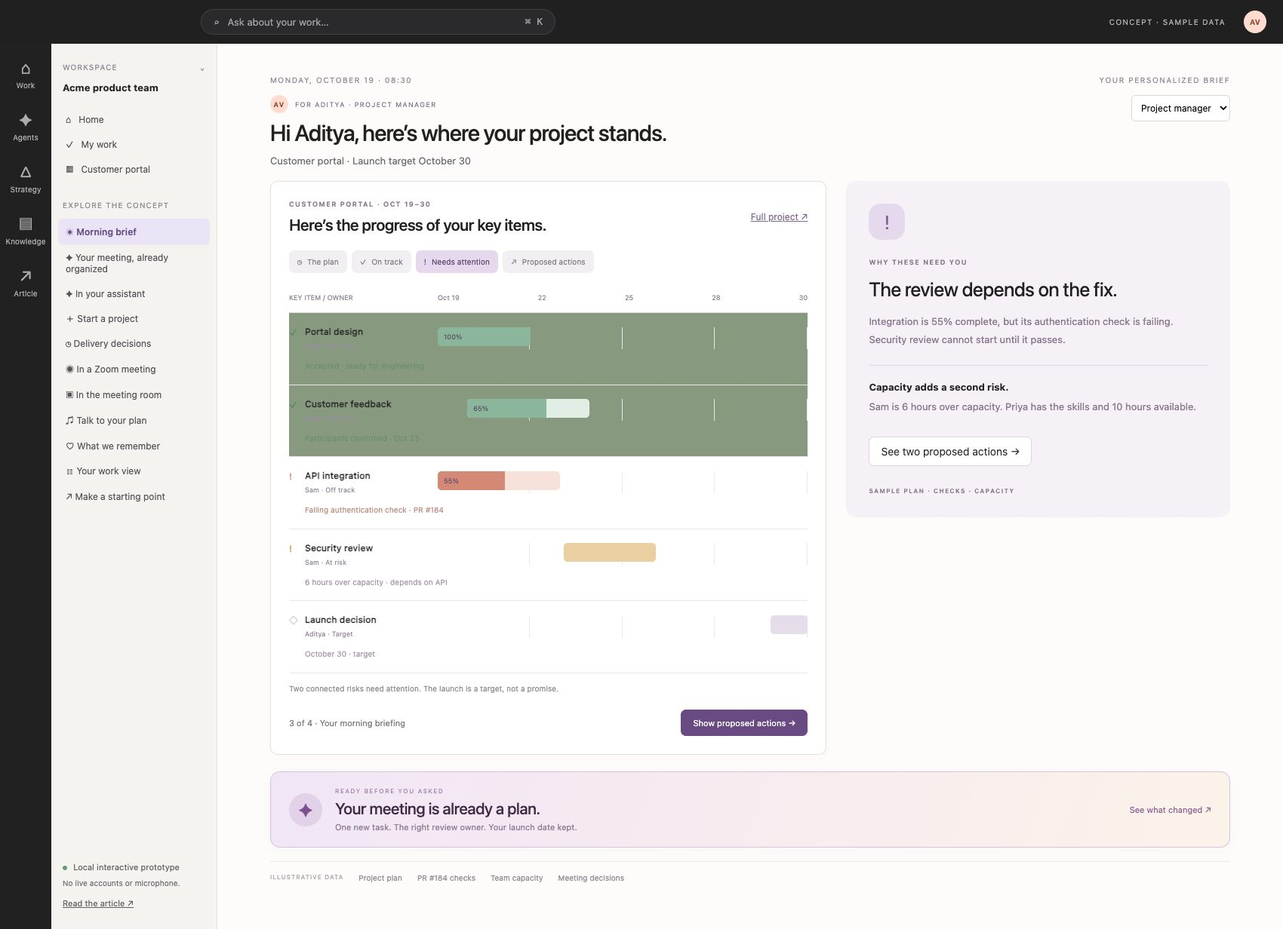
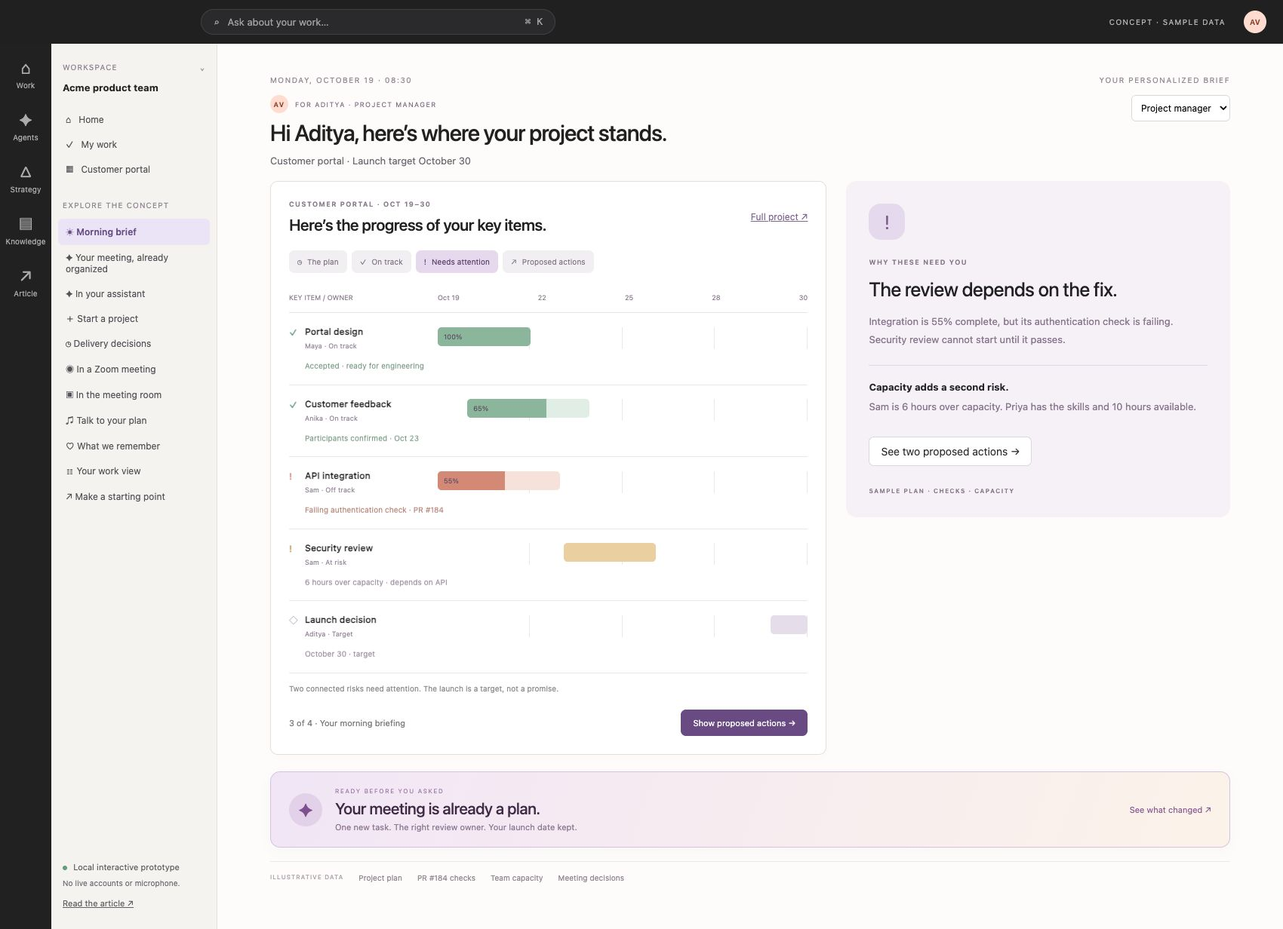
Keep Gantt status colors readable and archive briefing stages

Changed region(s): [[0.2182, 0.3393, 0.6547, 0.4935]]

diff --git a/projects/asana/prototype/app.js b/projects/asana/prototype/app.js
@@ -20,7 +20,7 @@ const voice=()=>head('Principle 5 / Voice while working alone','Talk through the
 const learning=()=>head('Principle 6 / Learn the reason behind a correction','An exception is useful context','Tell us why. We’ll use it next time.')+`<div class="grid equal"><section class="card"><span class="tag amber">Capacity warning · Sam Lee</span><div class="bubble">This overlap is intentional. Sam is pairing with Priya on the review, so don’t count both tasks as full-time work this week.</div><h2>What should we remember?</h2><div class="memory-card ${state.memory?'remembered':''}"><strong>Pairing changes the capacity estimate</strong><p>For the customer portal this week, treat Sam’s security review as shared pairing time.</p><div class="line"><span>Scope</span><span>This project only</span></div><div class="line"><span>Expires</span><span>Oct 23</span></div><div class="line"><span>Confirmed by</span><span>Aditya</span></div></div><button class="primary" onclick="state.memory=true;render();toast('Project exception saved in this demo')">${state.memory?'✓ Exception remembered':'Remember this exception'}</button></section><section class="card tint"><h2>A little more understanding</h2><p class="sub">We’ll account for pairing. We’ll still flag a failing security check.</p><div class="item"><span>✓</span><div><h3>Explain what changed</h3><p>Use the adjustment when estimating this week’s work.</p></div></div><div class="item"><span>◷</span><div><h3>Ask again when the exception expires</h3><p>Don’t turn one project’s exception into a permanent rule.</p></div></div><div class="item"><span>↗</span><div><h3>Check whether it helped</h3><p>Did the project stay on track? Did the warning return?</p></div></div><button onclick="state.memory=false;render();toast('Exception removed from the sample memory')">Reset exception</button><button class="inline-link" style="margin-left:14px" onclick="go('developer')">See a different work view →</button></section></div>`;
 const developer=()=>head('Principle 3 / Dynamic interfaces',state.role==='developer'?'Your next two days, Alex':'The delivery view, Aditya',state.role==='developer'?'The work you can act on, with the evidence and the deadline in view.':'Schedules, dependencies, and decisions across the project.',`<select class="role-switch" aria-label="Work view" onchange="state.role=this.value;render()"><option value="manager" ${state.role==='manager'?'selected':''}>Project manager</option><option value="developer" ${state.role==='developer'?'selected':''}>Developer</option></select>`)+`${state.role==='manager'?`<div class="notice"><div><strong>Launch readiness depends on two pieces of evidence</strong><p>API checks and security sign-off need review before the Oct 30 decision.</p></div><button onclick="go('risk')">Inspect risk →</button></div><div class="grid equal"><section class="card"><h2>Delivery milestones</h2><div class="line"><span>API integration · Oct 22</span><span class="tag amber">Checks failing</span></div><div class="line"><span>Security review · Oct 23</span><span class="tag gray">Pending</span></div><div class="line"><span>Launch decision · Oct 30</span><span class="tag">Aditya</span></div><p class="sourceline">Connected evidence is an input, not a substitute for acceptance.</p></section><section class="card tint"><h2>Questions to resolve</h2><p>Is the review owner confirmed? Are failing checks blocking acceptance? Is the scope still realistic?</p><button onclick="state.role='developer';render()">See what the developer sees →</button></section></div>`:`<div class="banner"><strong>API integration is due in 2 days. The linked checks are still failing.</strong><p>The pull request is open, but the task is not ready to call complete. Review the failure or let Aditya know what changed.</p></div><div class="grid two spaced"><section class="card"><div class="row spread"><h2>Continue API integration</h2><span class="tag amber">Needs attention</span></div><p class="tiny">Customer portal / Engineering / Due Oct 22</p><div class="code">PR #184 · feat/customer-portal-api<br>✓ Type check<br>✓ Unit tests<br>× Integration / authentication callback<br>Review requested · 1 unresolved comment</div><div class="divider"></div><h3>What will count as done?</h3><p class="tiny">Authentication works end to end, checks pass, and the reviewer accepts the change.</p><button class="primary" onclick="go('create')">Prepare a coding handoff →</button><button style="margin-left:8px" onclick="toast('Draft prepared: API integration may slip; authentication callback needs a fix. Nothing sent.')">Draft update for Aditya</button></section><section class="card tint"><h2>Why this is first</h2><p class="tiny">Security review depends on this integration. Your design cleanup task can wait until the callback is fixed.</p><div class="evidence"><strong class="tiny">Signals used</strong><p>Linked pull request, current checks, reviewer comments, and the project dependency.</p></div><button class="inline-link" onclick="go('board')">See the whole plan →</button></section></div>`}`;
 const create=()=>head('Beyond coordination / Get the work done','One request. The right capabilities behind it.','A useful first draft. Your choice of where to take it next.')+`<div class="grid two"><section class="card"><div class="row spread"><h2>Customer portal starter</h2><span class="tag ${state.artifact?'green':'gray'}">${state.artifact?'Draft ready':'Ready to generate'}</span></div><p class="sub">“Use our approved references and portal brief to give us a starting flow and implementation plan.”</p>${state.artifact?`<div class="room-timeline"><div><h3>Sign in</h3><p class="tiny">Email + verification</p><div style="height:6px;background:#ede9e3;margin:18px 0"></div><button style="font-size:10px" onclick="toast('Sample sign-in screen selected')">Continue</button></div><div><h3>Your workspace</h3><p class="tiny">Requests · Documents</p><div class="tag green">3 updates</div></div><div><h3>Request detail</h3><p class="tiny">Status · Owner · History</p><span class="tag">In progress</span></div></div><p class="sourceline">Illustrative artifact · generated locally from prepared sample content</p>`:`<div class="quote-note"><strong>Starting context</strong><p class="tiny">Portal brief · Approved design references · Authentication requirements</p><strong>Expected output</strong><p class="tiny">A reviewable starter flow, component outline, and scoped coding task.</p></div><div class="foot-actions"><button class="primary" onclick="state.artifact=true;render()">Generate sample starter →</button></div>`}<div class="divider"></div><div class="row"><span class="agent-icon">✦</span><p class="tiny">You speak to one assistant. Design, planning, and coding are capabilities it can bring in. Aditya remains accountable for acceptance.</p></div></section><section class="card tint"><h2>Take it into your tools</h2><p class="tiny">Keep the context and acceptance criteria attached when work moves to a specialist tool.</p><button style="width:100%;text-align:left" onclick="toast('Concept handoff: starter flow and references prepared for Figma. Nothing uploaded.')">↗ &nbsp; Prepare Figma handoff</button><div class="empty-space"></div><label class="tiny muted" for="coding-tool">CODING ENVIRONMENT</label><select id="coding-tool" class="role-switch" style="width:100%;margin:8px 0 14px"><option>Codex</option><option>Claude Code</option></select><div class="code">Task: Implement authentication flow<br>Scope: Feature branch only<br>Done: Checks pass + human review<br>Context: Brief, flow, requirements<br>Access: Approved repository only</div><div class="foot-actions"><button class="primary" onclick="state.session=true;render();toast('Sample coding handoff prepared. No session was started.')">${state.session?'✓ Handoff prepared':'Prepare coding session →'}</button></div>${state.session?'<div class="finish">Ready for your review. In a connected product, this is where you would approve access and start the session.</div>':''}<p class="sourceline">Concept only · no coding tool or external service is connected.</p></section></div>`;
-const morning=()=>{const engineering=state.briefFocus==='building',stage=state.morningStage??0;return `<div class="pm-dashboard"><div class="brief-masthead"><span>MONDAY, OCTOBER 19 · 08:30</span><span>YOUR PERSONALIZED BRIEF</span></div><div class="page-head"><div><div class="pm-persona">${av('AV','coral')} FOR ADITYA · ${engineering?'ENGINEERING FOCUS':'PROJECT MANAGER'}</div><h1>${engineering?'Fix the blocker. Keep work moving.':'Hi Aditya, here’s where your project stands.'}</h1><p class="sub">Customer portal · Launch target October 30</p></div><select class="role-switch" aria-label="Brief focus" onchange="state.briefFocus=this.value;render()"><option value="delivery" ${!engineering?'selected':''}>Project manager</option><option value="building" ${engineering?'selected':''}>Engineering</option></select></div><div class="pm-layout"><section class="card pm-status morning-timeline"><div class="row spread"><div><div class="brief-label">CUSTOMER PORTAL · OCT 19–30</div><h2>Here’s the progress of your key items.</h2></div><button class="inline-link" onclick="go('board')">Full project ↗</button></div><div class="brief-sequence" aria-label="Morning briefing steps">${[['The plan','◷'],['On track','✓'],['Needs attention','!'],['Proposed actions','↗']].map(([label,icon],i)=>`<button class="${stage===i?'selected':''}" aria-pressed="${stage===i}" onclick="state.morningStage=${i};render()"><span>${icon}</span>${label}</button>`).join('')}</div><div class="brief-gantt"><div class="brief-gantt-head"><span>KEY ITEM / OWNER</span><div><span>Oct 19</span><span>22</span><span>25</span><span>28</span><span>30</span></div></div>${[['Portal design','Maya',0,25,100,'good','Accepted · ready for engineering'],['Customer feedback','Anika',8,33,65,'good','Participants confirmed · Oct 23'],['API integration','Sam',0,33,55,'blocked','Failing authentication check · PR #184'],['Security review',state.meetingPlanApplied?'Priya':'Sam',34,25,0,'watch',state.meetingPlanApplied?'Waiting for integration checks':'6 hours over capacity · depends on API'],['Launch decision','Aditya',90,10,0,'target','October 30 · target']].map(([name,owner,left,width,progress,kind,detail])=>{const active=kind==='good'?stage>=1:stage>=2;return `<div class="brief-gantt-row ${active?'revealed '+kind:''}"><div class="brief-gantt-name"><strong><span class="brief-check">${active?(kind==='good'?'✓':kind==='target'?'◇':'!'):'·'}</span>${name}</strong><small>${owner} ${active?'· '+(kind==='good'?'On track':kind==='blocked'?'Off track':kind==='watch'?'At risk':'Target'):''}</small></div><div class="brief-gantt-track"><div class="brief-gantt-bar" style="left:${left}%;width:${width}%"><i style="width:${progress}%"></i><span>${progress?progress+'%':''}</span></div></div>${active?`<p class="brief-row-reason">${detail}</p>`:''}</div>`}).join('')}</div><p class="sourceline">${stage===0?'Your plan first. Walk through what’s moving, what needs you, and what to do next.':stage===1?'✓ Design and customer feedback are on track. You can leave these moving.':stage===2?'Two connected risks need attention. The launch is a target, not a promise.':'Two proposed actions, linked to the work they protect. You choose what happens next.'}</p><div class="row spread brief-next-step"><span class="tiny muted">${stage+1} of 4 · Your morning briefing</span>${stage<3?`<button class="primary" onclick="state.morningStage=${stage+1};render()">${['Show what’s on track','Show what needs attention','Show proposed actions'][stage]} →</button>`:'<button onclick="state.morningStage=0;render()">↺ Replay briefing</button>'}</div></section>${stage<3?`<aside class="brief-narrator"><span class="brief-narrator-icon">${stage===0?'☀':stage===1?'✓':'!'}</span><div class="brief-label">${stage===0?'GOOD MORNING':stage===1?'MOVING WELL':'WHY THESE NEED YOU'}</div><h2>${stage===0?'A clear start to your day.':stage===1?'Two things you don’t need to chase.':'The review depends on the fix.'}</h2><p>${stage===0?'The portal launch is October 30. Let’s look at progress before we get into decisions.':stage===1?'Maya’s design is accepted. Anika’s feedback session is confirmed. Both are moving within the plan.':'Integration is 55% complete, but its authentication check is failing. Security review cannot start until it passes.'}</p>${stage===2?`<div class="brief-risk-note"><strong>Capacity adds a second risk.</strong><p>${state.meetingPlanApplied?'Priya now owns the review. The integration dependency remains.':'Sam is 6 hours over capacity. Priya has the skills and 10 hours available.'}</p></div><button onclick="state.morningStage=3;render()">See two proposed actions →</button>`:'<span class="tag green">'+(stage===0?'Prepared for your project manager view':'✓ Design · ✓ Customer feedback')+'</span>'}<div class="brief-label brief-source-note">SAMPLE PLAN · CHECKS · CAPACITY</div></aside>`:''}<aside class="pm-recommendations" ${stage<3?'hidden':''}><div class="brief-label">${state.meetingPlanApplied?'YOUR NEXT STEP · AND WHAT MOVED':'TWO RECOMMENDATIONS FOR YOU'}</div><article class="pm-recommendation"><div class="pm-rec-number">01 <span>UNBLOCK THE WORK</span></div><h2>${engineering?'Fix the authentication callback first.':'Get Sam’s fix plan today.'}</h2><p>Resolve the failing authentication check before the October 22 integration deadline. Keep Sam focused on this blocker.</p><div class="pm-impact">Protects the start of security review.</div><button class="primary" onclick="${engineering?"state.role='developer';go('developer')":"openBriefDraft('sam')"}">${engineering?'Open the blocked task →':'Review follow-up to Sam →'}</button></article><article class="pm-recommendation"><div class="pm-rec-number">02 <span>PROTECT THE NEXT MILESTONE</span></div><h2>${state.meetingPlanApplied?'You kept the review moving.':'Move the security review to Priya.'}</h2><p>She has the skills and 10 hours available. Sam stays on integration; the October 30 launch target stays in view.</p><div class="pm-impact">Removes the 6-hour capacity conflict.</div><button onclick="go(state.meetingPlanApplied?'meeting-plan':'risk')">${state.meetingPlanApplied?'See the reviewed plan →':'Review the reassignment →'}</button></article><div class="pm-board-note"><span>Keep stakeholders aligned.</span><button class="inline-link" onclick="openBriefDraft('board')">Draft a launch-board update ↗</button></div></aside></div><button class="prepared-surprise" onclick="go('meeting-plan')"><span class="prepared-mark">✦</span><span><small>READY BEFORE YOU ASKED</small><strong>${state.meetingPlanApplied?'Your meeting is now in the plan.':'Your meeting is already a plan.'}</strong><span>One new task. The right review owner. Your launch date kept.</span></span><span class="prepared-open">See what changed ↗</span></button><div class="brief-provenance">ILLUSTRATIVE DATA <span>Project plan</span><span>PR #184 checks</span><span>Team capacity</span><span>Meeting decisions</span></div></div><dialog id="brief-dialog"><button class="dialog-close" onclick="document.getElementById('brief-dialog').close()" aria-label="Close draft">×</button><span class="tag">Draft for your review</span><h2 id="draft-title"></h2><p id="draft-copy"></p><div class="divider"></div><p class="tiny muted">Sample only. No message has been sent.</p><button class="primary" onclick="document.getElementById('brief-dialog').close();toast('Draft kept for review. Nothing sent.')">Keep draft</button></dialog>`;};
+const morning=()=>{const engineering=state.briefFocus==='building',stage=state.morningStage??0;return `<div class="pm-dashboard"><div class="brief-masthead"><span>MONDAY, OCTOBER 19 · 08:30</span><span>YOUR PERSONALIZED BRIEF</span></div><div class="page-head"><div><div class="pm-persona">${av('AV','coral')} FOR ADITYA · ${engineering?'ENGINEERING FOCUS':'PROJECT MANAGER'}</div><h1>${engineering?'Fix the blocker. Keep work moving.':'Hi Aditya, here’s where your project stands.'}</h1><p class="sub">Customer portal · Launch target October 30</p></div><select class="role-switch" aria-label="Brief focus" onchange="state.briefFocus=this.value;render()"><option value="delivery" ${!engineering?'selected':''}>Project manager</option><option value="building" ${engineering?'selected':''}>Engineering</option></select></div><div class="pm-layout"><section class="card pm-status morning-timeline"><div class="row spread"><div><div class="brief-label">CUSTOMER PORTAL · OCT 19–30</div><h2>Here’s the progress of your key items.</h2></div><button class="inline-link" onclick="go('board')">Full project ↗</button></div><div class="brief-sequence" aria-label="Morning briefing steps">${[['The plan','◷'],['On track','✓'],['Needs attention','!'],['Proposed actions','↗']].map(([label,icon],i)=>`<button class="${stage===i?'selected':''}" aria-pressed="${stage===i}" onclick="state.morningStage=${i};render()"><span>${icon}</span>${label}</button>`).join('')}</div><div class="brief-gantt"><div class="brief-gantt-head"><span>KEY ITEM / OWNER</span><div><span>Oct 19</span><span>22</span><span>25</span><span>28</span><span>30</span></div></div>${[['Portal design','Maya',0,25,100,'on-schedule','Accepted · ready for engineering'],['Customer feedback','Anika',8,33,65,'on-schedule','Participants confirmed · Oct 23'],['API integration','Sam',0,33,55,'blocked','Failing authentication check · PR #184'],['Security review',state.meetingPlanApplied?'Priya':'Sam',34,25,0,'watch',state.meetingPlanApplied?'Waiting for integration checks':'6 hours over capacity · depends on API'],['Launch decision','Aditya',90,10,0,'target','October 30 · target']].map(([name,owner,left,width,progress,kind,detail])=>{const active=kind==='on-schedule'?stage>=1:stage>=2;return `<div class="brief-gantt-row ${active?'revealed '+kind:''}"><div class="brief-gantt-name"><strong><span class="brief-check">${active?(kind==='on-schedule'?'✓':kind==='target'?'◇':'!'):'·'}</span>${name}</strong><small>${owner} ${active?'· '+(kind==='on-schedule'?'On track':kind==='blocked'?'Off track':kind==='watch'?'At risk':'Target'):''}</small></div><div class="brief-gantt-track"><div class="brief-gantt-bar" style="left:${left}%;width:${width}%"><i style="width:${progress}%"></i><span>${progress?progress+'%':''}</span></div></div>${active?`<p class="brief-row-reason">${detail}</p>`:''}</div>`}).join('')}</div><p class="sourceline">${stage===0?'Your plan first. Walk through what’s moving, what needs you, and what to do next.':stage===1?'✓ Design and customer feedback are on track. You can leave these moving.':stage===2?'Two connected risks need attention. The launch is a target, not a promise.':'Two proposed actions, linked to the work they protect. You choose what happens next.'}</p><div class="row spread brief-next-step"><span class="tiny muted">${stage+1} of 4 · Your morning briefing</span>${stage<3?`<button class="primary" onclick="state.morningStage=${stage+1};render()">${['Show what’s on track','Show what needs attention','Show proposed actions'][stage]} →</button>`:'<button onclick="state.morningStage=0;render()">↺ Replay briefing</button>'}</div></section>${stage<3?`<aside class="brief-narrator"><span class="brief-narrator-icon">${stage===0?'☀':stage===1?'✓':'!'}</span><div class="brief-label">${stage===0?'GOOD MORNING':stage===1?'MOVING WELL':'WHY THESE NEED YOU'}</div><h2>${stage===0?'A clear start to your day.':stage===1?'Two things you don’t need to chase.':'The review depends on the fix.'}</h2><p>${stage===0?'The portal launch is October 30. Let’s look at progress before we get into decisions.':stage===1?'Maya’s design is accepted. Anika’s feedback session is confirmed. Both are moving within the plan.':'Integration is 55% complete, but its authentication check is failing. Security review cannot start until it passes.'}</p>${stage===2?`<div class="brief-risk-note"><strong>Capacity adds a second risk.</strong><p>${state.meetingPlanApplied?'Priya now owns the review. The integration dependency remains.':'Sam is 6 hours over capacity. Priya has the skills and 10 hours available.'}</p></div><button onclick="state.morningStage=3;render()">See two proposed actions →</button>`:'<span class="tag green">'+(stage===0?'Prepared for your project manager view':'✓ Design · ✓ Customer feedback')+'</span>'}<div class="brief-label brief-source-note">SAMPLE PLAN · CHECKS · CAPACITY</div></aside>`:''}<aside class="pm-recommendations" ${stage<3?'hidden':''}><div class="brief-label">${state.meetingPlanApplied?'YOUR NEXT STEP · AND WHAT MOVED':'TWO RECOMMENDATIONS FOR YOU'}</div><article class="pm-recommendation"><div class="pm-rec-number">01 <span>UNBLOCK THE WORK</span></div><h2>${engineering?'Fix the authentication callback first.':'Get Sam’s fix plan today.'}</h2><p>Resolve the failing authentication check before the October 22 integration deadline. Keep Sam focused on this blocker.</p><div class="pm-impact">Protects the start of security review.</div><button class="primary" onclick="${engineering?"state.role='developer';go('developer')":"openBriefDraft('sam')"}">${engineering?'Open the blocked task →':'Review follow-up to Sam →'}</button></article><article class="pm-recommendation"><div class="pm-rec-number">02 <span>PROTECT THE NEXT MILESTONE</span></div><h2>${state.meetingPlanApplied?'You kept the review moving.':'Move the security review to Priya.'}</h2><p>She has the skills and 10 hours available. Sam stays on integration; the October 30 launch target stays in view.</p><div class="pm-impact">Removes the 6-hour capacity conflict.</div><button onclick="go(state.meetingPlanApplied?'meeting-plan':'risk')">${state.meetingPlanApplied?'See the reviewed plan →':'Review the reassignment →'}</button></article><div class="pm-board-note"><span>Keep stakeholders aligned.</span><button class="inline-link" onclick="openBriefDraft('board')">Draft a launch-board update ↗</button></div></aside></div><button class="prepared-surprise" onclick="go('meeting-plan')"><span class="prepared-mark">✦</span><span><small>READY BEFORE YOU ASKED</small><strong>${state.meetingPlanApplied?'Your meeting is now in the plan.':'Your meeting is already a plan.'}</strong><span>One new task. The right review owner. Your launch date kept.</span></span><span class="prepared-open">See what changed ↗</span></button><div class="brief-provenance">ILLUSTRATIVE DATA <span>Project plan</span><span>PR #184 checks</span><span>Team capacity</span><span>Meeting decisions</span></div></div><dialog id="brief-dialog"><button class="dialog-close" onclick="document.getElementById('brief-dialog').close()" aria-label="Close draft">×</button><span class="tag">Draft for your review</span><h2 id="draft-title"></h2><p id="draft-copy"></p><div class="divider"></div><p class="tiny muted">Sample only. No message has been sent.</p><button class="primary" onclick="document.getElementById('brief-dialog').close();toast('Draft kept for review. Nothing sent.')">Keep draft</button></dialog>`;};
 function morningPrimary(){if(state.briefFocus==='building'){state.role='developer';go('developer')}else openBriefDraft('priya')}
 function openBriefDraft(who){const drafts={sam:['To Sam · Unblock API integration','Hi Sam — the authentication check in PR #184 is still failing, and security review depends on it. Can you share your fix plan today and confirm whether October 22 is still achievable? We can move the security review to Priya so you can focus on the callback.'],priya:['To Priya · Confirm the review','Hi Priya — can you take the customer portal security review on October 23? You have 10 hours available; moving it from Sam would let him focus on API integration.'],board:['To the launch board · Morning update','Customer portal: portal design and the customer feedback session are on track. API integration is off track because the authentication check in PR #184 is failing. Security review is at risk due to Sam’s capacity. Recommended actions: get Sam’s fix plan today and move the security review to Priya. October 30 remains the launch target, subject to passing checks and review.']};const d=drafts[who]||drafts.board;document.getElementById('draft-title').textContent=d[0];document.getElementById('draft-copy').textContent=d[1];document.getElementById('brief-dialog').showModal()}
 

diff --git a/projects/asana/concept-gallery.html b/projects/asana/concept-gallery.html
@@ -1,1 +1,1 @@
-<!doctype html><html lang="en"><meta charset="utf-8"><meta name="viewport" content="width=device-width,initial-scale=1"><title>Asana concept screenshots</title><style>body{margin:40px auto;max-width:1200px;padding:0 24px;background:#faf7f2;color:#39313e;font:15px/1.7 system-ui}h1{font-weight:500}nav{display:flex;gap:20px}a{color:#7a568b}figure{margin:35px 0}img{width:100%;border-radius:10px;border:1px solid #e4dce7}figcaption{font-size:12px;color:#938599}</style><h1>Asana, imagined agent-native</h1><p>29 concept captures · fictional data · local prototype</p><nav><a href="./">Read the article</a><a href="prototype/">Explore the prototype</a><a href="video/">Watch the walkthrough</a></nav><figure><a href="concept-screenshots/01-home.jpg"><img loading="lazy" src="concept-screenshots/01-home.jpg" alt="01-home"></a><figcaption>01 home</figcaption></figure><figure><a href="concept-screenshots/02-assistant-extension.jpg"><img loading="lazy" src="concept-screenshots/02-assistant-extension.jpg" alt="02-assistant-extension"></a><figcaption>02 assistant extension</figcaption></figure><figure><a href="concept-screenshots/03-project-brief.jpg"><img loading="lazy" src="concept-screenshots/03-project-brief.jpg" alt="03-project-brief"></a><figcaption>03 project brief</figcaption></figure><figure><a href="concept-screenshots/04-recommended-plan.jpg"><img loading="lazy" src="concept-screenshots/04-recommended-plan.jpg" alt="04-recommended-plan"></a><figcaption>04 recommended plan</figcaption></figure><figure><a href="concept-screenshots/05-plan-list-alternative.jpg"><img loading="lazy" src="concept-screenshots/05-plan-list-alternative.jpg" alt="05-plan-list-alternative"></a><figcaption>05 plan list alternative</figcaption></figure><figure><a href="concept-screenshots/06-project-list.jpg"><img loading="lazy" src="concept-screenshots/06-project-list.jpg" alt="06-project-list"></a><figcaption>06 project list</figcaption></figure><figure><a href="concept-screenshots/07-project-board.jpg"><img loading="lazy" src="concept-screenshots/07-project-board.jpg" alt="07-project-board"></a><figcaption>07 project board</figcaption></figure><figure><a href="concept-screenshots/08-capacity-risk.jpg"><img loading="lazy" src="concept-screenshots/08-capacity-risk.jpg" alt="08-capacity-risk"></a><figcaption>08 capacity risk</figcaption></figure><figure><a href="concept-screenshots/09-risk-resolved.jpg"><img loading="lazy" src="concept-screenshots/09-risk-resolved.jpg" alt="09-risk-resolved"></a><figcaption>09 risk resolved</figcaption></figure><figure><a href="concept-screenshots/10-zoom-meeting.jpg"><img loading="lazy" src="concept-screenshots/10-zoom-meeting.jpg" alt="10-zoom-meeting"></a><figcaption>10 zoom meeting</figcaption></figure><figure><a href="concept-screenshots/11-meeting-approved.jpg"><img loading="lazy" src="concept-screenshots/11-meeting-approved.jpg" alt="11-meeting-approved"></a><figcaption>11 meeting approved</figcaption></figure><figure><a href="concept-screenshots/12-meeting-room.jpg"><img loading="lazy" src="concept-screenshots/12-meeting-room.jpg" alt="12-meeting-room"></a><figcaption>12 meeting room</figcaption></figure><figure><a href="concept-screenshots/13-voice-before.jpg"><img loading="lazy" src="concept-screenshots/13-voice-before.jpg" alt="13-voice-before"></a><figcaption>13 voice before</figcaption></figure><figure><a href="concept-screenshots/14-voice-after.jpg"><img loading="lazy" src="concept-screenshots/14-voice-after.jpg" alt="14-voice-after"></a><figcaption>14 voice after</figcaption></figure><figure><a href="concept-screenshots/15-learning-before.jpg"><img loading="lazy" src="concept-screenshots/15-learning-before.jpg" alt="15-learning-before"></a><figcaption>15 learning before</figcaption></figure><figure><a href="concept-screenshots/16-learning-saved.jpg"><img loading="lazy" src="concept-screenshots/16-learning-saved.jpg" alt="16-learning-saved"></a><figcaption>16 learning saved</figcaption></figure><figure><a href="concept-screenshots/17-manager-view.jpg"><img loading="lazy" src="concept-screenshots/17-manager-view.jpg" alt="17-manager-view"></a><figcaption>17 manager view</figcaption></figure><figure><a href="concept-screenshots/18-developer-view.jpg"><img loading="lazy" src="concept-screenshots/18-developer-view.jpg" alt="18-developer-view"></a><figcaption>18 developer view</figcaption></figure><figure><a href="concept-screenshots/19-create-before.jpg"><img loading="lazy" src="concept-screenshots/19-create-before.jpg" alt="19-create-before"></a><figcaption>19 create before</figcaption></figure><figure><a href="concept-screenshots/20-starter-artifact.jpg"><img loading="lazy" src="concept-screenshots/20-starter-artifact.jpg" alt="20-starter-artifact"></a><figcaption>20 starter artifact</figcaption></figure><figure><a href="concept-screenshots/21-coding-handoff.jpg"><img loading="lazy" src="concept-screenshots/21-coding-handoff.jpg" alt="21-coding-handoff"></a><figcaption>21 coding handoff</figcaption></figure><figure><a href="concept-screenshots/22-morning-brief.jpg"><img loading="lazy" src="concept-screenshots/22-morning-brief.jpg" alt="22-morning-brief"></a><figcaption>22 morning brief</figcaption></figure><figure><a href="concept-screenshots/23-morning-follow-up.jpg"><img loading="lazy" src="concept-screenshots/23-morning-follow-up.jpg" alt="23-morning-follow-up"></a><figcaption>23 morning follow up</figcaption></figure><figure><a href="concept-screenshots/24-morning-board-update.jpg"><img loading="lazy" src="concept-screenshots/24-morning-board-update.jpg" alt="24-morning-board-update"></a><figcaption>24 morning board update</figcaption></figure><figure><a href="concept-screenshots/25-morning-engineering.jpg"><img loading="lazy" src="concept-screenshots/25-morning-engineering.jpg" alt="25-morning-engineering"></a><figcaption>25 morning engineering</figcaption></figure><figure><a href="concept-screenshots/26-meeting-plan-before.jpg"><img loading="lazy" src="concept-screenshots/26-meeting-plan-before.jpg" alt="Meeting decisions become a reviewable plan"></a><figcaption>The conversation and the original plan</figcaption></figure><figure><a href="concept-screenshots/27-meeting-plan-reveal.jpg"><img loading="lazy" src="concept-screenshots/27-meeting-plan-reveal.jpg" alt="Meeting decisions become a reviewable plan"></a><figcaption>Tap a decision to reveal its task and owner changes</figcaption></figure><figure><a href="concept-screenshots/28-meeting-plan-kept.jpg"><img loading="lazy" src="concept-screenshots/28-meeting-plan-kept.jpg" alt="Prepared meeting work reviewed and kept"></a><figcaption>Two prepared updates kept after review</figcaption></figure><figure><a href="concept-screenshots/29-morning-prepared-work.jpg"><img loading="lazy" src="concept-screenshots/29-morning-prepared-work.jpg" alt="Prepared meeting work reviewed and kept"></a><figcaption>A useful surprise in the morning brief</figcaption></figure></html>
+<!doctype html><html lang="en"><meta charset="utf-8"><meta name="viewport" content="width=device-width,initial-scale=1"><title>Asana concept screenshots</title><style>body{margin:40px auto;max-width:1200px;padding:0 24px;background:#faf7f2;color:#39313e;font:15px/1.7 system-ui}h1{font-weight:500}nav{display:flex;gap:20px}a{color:#7a568b}figure{margin:35px 0}img{width:100%;border-radius:10px;border:1px solid #e4dce7}figcaption{font-size:12px;color:#938599}</style><h1>Asana, imagined agent-native</h1><p>29 concept captures · fictional data · local prototype</p><nav><a href="./">Read the article</a><a href="prototype/">Explore the prototype</a><a href="video/">Watch the walkthrough</a></nav><figure><a href="concept-screenshots/01-home.jpg"><img loading="lazy" src="concept-screenshots/01-home.jpg" alt="01-home"></a><figcaption>01 home</figcaption></figure><figure><a href="concept-screenshots/02-assistant-extension.jpg"><img loading="lazy" src="concept-screenshots/02-assistant-extension.jpg" alt="02-assistant-extension"></a><figcaption>02 assistant extension</figcaption></figure><figure><a href="concept-screenshots/03-project-brief.jpg"><img loading="lazy" src="concept-screenshots/03-project-brief.jpg" alt="03-project-brief"></a><figcaption>03 project brief</figcaption></figure><figure><a href="concept-screenshots/04-recommended-plan.jpg"><img loading="lazy" src="concept-screenshots/04-recommended-plan.jpg" alt="04-recommended-plan"></a><figcaption>04 recommended plan</figcaption></figure><figure><a href="concept-screenshots/05-plan-list-alternative.jpg"><img loading="lazy" src="concept-screenshots/05-plan-list-alternative.jpg" alt="05-plan-list-alternative"></a><figcaption>05 plan list alternative</figcaption></figure><figure><a href="concept-screenshots/06-project-list.jpg"><img loading="lazy" src="concept-screenshots/06-project-list.jpg" alt="06-project-list"></a><figcaption>06 project list</figcaption></figure><figure><a href="concept-screenshots/07-project-board.jpg"><img loading="lazy" src="concept-screenshots/07-project-board.jpg" alt="07-project-board"></a><figcaption>07 project board</figcaption></figure><figure><a href="concept-screenshots/08-capacity-risk.jpg"><img loading="lazy" src="concept-screenshots/08-capacity-risk.jpg" alt="08-capacity-risk"></a><figcaption>08 capacity risk</figcaption></figure><figure><a href="concept-screenshots/09-risk-resolved.jpg"><img loading="lazy" src="concept-screenshots/09-risk-resolved.jpg" alt="09-risk-resolved"></a><figcaption>09 risk resolved</figcaption></figure><figure><a href="concept-screenshots/10-zoom-meeting.jpg"><img loading="lazy" src="concept-screenshots/10-zoom-meeting.jpg" alt="10-zoom-meeting"></a><figcaption>10 zoom meeting</figcaption></figure><figure><a href="concept-screenshots/11-meeting-approved.jpg"><img loading="lazy" src="concept-screenshots/11-meeting-approved.jpg" alt="11-meeting-approved"></a><figcaption>11 meeting approved</figcaption></figure><figure><a href="concept-screenshots/12-meeting-room.jpg"><img loading="lazy" src="concept-screenshots/12-meeting-room.jpg" alt="12-meeting-room"></a><figcaption>12 meeting room</figcaption></figure><figure><a href="concept-screenshots/13-voice-before.jpg"><img loading="lazy" src="concept-screenshots/13-voice-before.jpg" alt="13-voice-before"></a><figcaption>13 voice before</figcaption></figure><figure><a href="concept-screenshots/14-voice-after.jpg"><img loading="lazy" src="concept-screenshots/14-voice-after.jpg" alt="14-voice-after"></a><figcaption>14 voice after</figcaption></figure><figure><a href="concept-screenshots/15-learning-before.jpg"><img loading="lazy" src="concept-screenshots/15-learning-before.jpg" alt="15-learning-before"></a><figcaption>15 learning before</figcaption></figure><figure><a href="concept-screenshots/16-learning-saved.jpg"><img loading="lazy" src="concept-screenshots/16-learning-saved.jpg" alt="16-learning-saved"></a><figcaption>16 learning saved</figcaption></figure><figure><a href="concept-screenshots/17-manager-view.jpg"><img loading="lazy" src="concept-screenshots/17-manager-view.jpg" alt="17-manager-view"></a><figcaption>17 manager view</figcaption></figure><figure><a href="concept-screenshots/18-developer-view.jpg"><img loading="lazy" src="concept-screenshots/18-developer-view.jpg" alt="18-developer-view"></a><figcaption>18 developer view</figcaption></figure><figure><a href="concept-screenshots/19-create-before.jpg"><img loading="lazy" src="concept-screenshots/19-create-before.jpg" alt="19-create-before"></a><figcaption>19 create before</figcaption></figure><figure><a href="concept-screenshots/20-starter-artifact.jpg"><img loading="lazy" src="concept-screenshots/20-starter-artifact.jpg" alt="20-starter-artifact"></a><figcaption>20 starter artifact</figcaption></figure><figure><a href="concept-screenshots/21-coding-handoff.jpg"><img loading="lazy" src="concept-screenshots/21-coding-handoff.jpg" alt="21-coding-handoff"></a><figcaption>21 coding handoff</figcaption></figure><figure><a href="concept-screenshots/22-morning-brief.jpg"><img loading="lazy" src="concept-screenshots/22-morning-brief.jpg" alt="22-morning-brief"></a><figcaption>22 morning brief</figcaption></figure><figure><a href="concept-screenshots/23-morning-follow-up.jpg"><img loading="lazy" src="concept-screenshots/23-morning-follow-up.jpg" alt="23-morning-follow-up"></a><figcaption>23 morning follow up</figcaption></figure><figure><a href="concept-screenshots/24-morning-board-update.jpg"><img loading="lazy" src="concept-screenshots/24-morning-board-update.jpg" alt="24-morning-board-update"></a><figcaption>24 morning board update</figcaption></figure><figure><a href="concept-screenshots/25-morning-engineering.jpg"><img loading="lazy" src="concept-screenshots/25-morning-engineering.jpg" alt="25-morning-engineering"></a><figcaption>25 morning engineering</figcaption></figure><figure><a href="concept-screenshots/26-meeting-plan-before.jpg"><img loading="lazy" src="concept-screenshots/26-meeting-plan-before.jpg" alt="Meeting decisions become a reviewable plan"></a><figcaption>The conversation and the original plan</figcaption></figure><figure><a href="concept-screenshots/27-meeting-plan-reveal.jpg"><img loading="lazy" src="concept-screenshots/27-meeting-plan-reveal.jpg" alt="Meeting decisions become a reviewable plan"></a><figcaption>Tap a decision to reveal its task and owner changes</figcaption></figure><figure><a href="concept-screenshots/28-meeting-plan-kept.jpg"><img loading="lazy" src="concept-screenshots/28-meeting-plan-kept.jpg" alt="Prepared meeting work reviewed and kept"></a><figcaption>Two prepared updates kept after review</figcaption></figure><figure><a href="concept-screenshots/29-morning-prepared-work.jpg"><img loading="lazy" src="concept-screenshots/29-morning-prepared-work.jpg" alt="Prepared meeting work reviewed and kept"></a><figcaption>A useful surprise in the morning brief</figcaption></figure><figure><a href="concept-screenshots/30-morning-gantt-overview.png"><img loading="lazy" src="concept-screenshots/30-morning-gantt-overview.png" alt="Personal greeting and Gantt overview"></a><figcaption>Personal greeting and Gantt overview</figcaption></figure><figure><a href="concept-screenshots/31-morning-on-track.png"><img loading="lazy" src="concept-screenshots/31-morning-on-track.png" alt="On-track work checked in green"></a><figcaption>On-track work checked in green</figcaption></figure><figure><a href="concept-screenshots/32-morning-risk-reasons.png"><img loading="lazy" src="concept-screenshots/32-morning-risk-reasons.png" alt="Risks and their underlying causes"></a><figcaption>Risks and their underlying causes</figcaption></figure><figure><a href="concept-screenshots/33-morning-proposed-actions.png"><img loading="lazy" src="concept-screenshots/33-morning-proposed-actions.png" alt="Two proposed actions for the project manager"></a><figcaption>Two proposed actions for the project manager</figcaption></figure></html>

diff --git a/projects/asana/prototype/style.css b/projects/asana/prototype/style.css
@@ -19,4 +19,4 @@ body{background:#fdfcfb}.sidebar{background:#f6f5f2}.sidebar nav button.active{b
 .decision-invite{font-size:10px;color:#ad94b5;line-height:1.6;margin:14px 0}.spoken-decision{display:block;text-align:left;font:inherit;line-height:1.6;color:inherit;background:transparent;border:0;border-left:2px solid transparent;border-radius:0;padding:8px 10px;margin:0 0 12px -12px;width:100%;transition:background .2s,border-color .2s}.spoken-decision:hover,.spoken-decision:focus-visible,.spoken-selected{background:#f2eaf5;border-left-color:#b78bc7;color:#775181}.magic-gantt .decision-target{background:#f3ecf7;box-shadow:0 0 0 8px #f3ecf7;border-radius:3px}.magic-gantt .decision-target strong{color:#8d5ca0}
 
 /* A morning brief unfolds from the schedule to the decision. */
-.pm-recommendations[hidden]{display:none}.brief-sequence{display:flex;gap:6px;margin:22px 0 27px;flex-wrap:wrap}.brief-sequence button{font-size:10px;border:0;background:#f4f1f5;color:#8b7e90;padding:9px 11px}.brief-sequence button.selected{background:#e9def0;color:#654775}.brief-sequence button span{margin-right:7px}.brief-gantt-head{display:grid;grid-template-columns:185px 1fr;gap:12px;font-size:9px;color:#9c8d9f;padding-bottom:14px;border-bottom:1px solid #ece7ed}.brief-gantt-head>div{display:flex;justify-content:space-between}.brief-gantt-row{display:grid;grid-template-columns:185px 1fr;gap:12px;align-items:center;padding:17px 0;border-bottom:1px solid #eee9ef}.brief-gantt-name strong{font-size:12px;display:block;font-weight:550}.brief-gantt-name small{display:block;font-size:9px;color:#a396a7;margin:6px 0 0 21px}.brief-check{display:inline-block;width:21px;color:#b8aebd}.brief-gantt-track{height:29px;background:repeating-linear-gradient(to right,transparent 0,transparent calc(25% - 1px),#eee9ef calc(25% - 1px),#eee9ef 25%);position:relative}.brief-gantt-bar{height:25px;border-radius:5px;position:absolute;background:#e8e1ed;overflow:hidden}.brief-gantt-bar i{display:block;height:100%;background:#c0accf}.brief-gantt-bar>span{position:absolute;left:8px;top:7px;font-size:9px;color:#64546c}.revealed.good .brief-check{color:#4b8b68}.revealed.good .brief-gantt-bar{background:#e4f0e8}.revealed.good .brief-gantt-bar i{background:#96bea5}.revealed.blocked .brief-check{color:#bc6656}.revealed.blocked .brief-gantt-bar{background:#f8e6e0}.revealed.blocked .brief-gantt-bar i{background:#d99482}.revealed.watch .brief-check{color:#b88a42}.revealed.watch .brief-gantt-bar{background:#edd6aa}.brief-row-reason{grid-column:1/-1;margin:0 0 0 21px;font-size:10px;color:#9b8d9f;animation:brief-in .45s ease both}.revealed.good .brief-row-reason{color:#6e937c}.revealed.blocked .brief-row-reason{color:#b07667}.brief-next-step{margin-top:20px;gap:12px}.brief-next-step button{font-size:11px}.brief-narrator{padding:30px;background:#f6f3f8;border-radius:14px;align-self:start}.brief-narrator-icon{display:grid;place-items:center;width:48px;height:48px;background:#e8dfef;border-radius:16px;color:#886396;font-size:25px;margin-bottom:24px}.brief-narrator h2{font-size:26px;font-weight:450;line-height:1.3;letter-spacing:-.5px;margin:14px 0}.brief-narrator p{font-size:13px;line-height:1.8;color:#948298}.brief-risk-note{border-top:1px solid #e4dae9;padding-top:19px;margin-top:22px}.brief-risk-note strong{font-size:13px}.brief-narrator button{margin-top:14px}.brief-source-note{margin-top:28px;font-size:8px}.pm-dashboard>.prepared-surprise{margin-top:22px}.brief-check{animation:brief-in .5s ease both}@keyframes brief-in{from{opacity:0;transform:translateY(5px)}to{opacity:1;transform:translateY(0)}}@media(max-width:720px){.brief-gantt-head,.brief-gantt-row{grid-template-columns:145px 1fr}.brief-gantt-name strong{font-size:11px}.brief-sequence{gap:4px}.brief-sequence button{font-size:9px;padding:8px}.brief-narrator{padding:22px}}@media(prefers-reduced-motion:reduce){.brief-check,.brief-row-reason{animation:none}}
+.pm-recommendations[hidden]{display:none}.brief-sequence{display:flex;gap:6px;margin:22px 0 27px;flex-wrap:wrap}.brief-sequence button{font-size:10px;border:0;background:#f4f1f5;color:#8b7e90;padding:9px 11px}.brief-sequence button.selected{background:#e9def0;color:#654775}.brief-sequence button span{margin-right:7px}.brief-gantt-head{display:grid;grid-template-columns:185px 1fr;gap:12px;font-size:9px;color:#9c8d9f;padding-bottom:14px;border-bottom:1px solid #ece7ed}.brief-gantt-head>div{display:flex;justify-content:space-between}.brief-gantt-row{display:grid;grid-template-columns:185px 1fr;gap:12px;align-items:center;padding:17px 0;border-bottom:1px solid #eee9ef}.brief-gantt-name strong{font-size:12px;display:block;font-weight:550}.brief-gantt-name small{display:block;font-size:9px;color:#a396a7;margin:6px 0 0 21px}.brief-check{display:inline-block;width:21px;color:#b8aebd}.brief-gantt-track{height:29px;background:repeating-linear-gradient(to right,transparent 0,transparent calc(25% - 1px),#eee9ef calc(25% - 1px),#eee9ef 25%);position:relative}.brief-gantt-bar{height:25px;border-radius:5px;position:absolute;background:#e8e1ed;overflow:hidden}.brief-gantt-bar i{display:block;height:100%;background:#c0accf}.brief-gantt-bar>span{position:absolute;left:8px;top:7px;font-size:9px;color:#64546c}.revealed.on-schedule .brief-check{color:#4b8b68}.revealed.on-schedule .brief-gantt-bar{background:#e4f0e8}.revealed.on-schedule .brief-gantt-bar i{background:#96bea5}.revealed.blocked .brief-check{color:#bc6656}.revealed.blocked .brief-gantt-bar{background:#f8e6e0}.revealed.blocked .brief-gantt-bar i{background:#d99482}.revealed.watch .brief-check{color:#b88a42}.revealed.watch .brief-gantt-bar{background:#edd6aa}.brief-row-reason{grid-column:1/-1;margin:0 0 0 21px;font-size:10px;color:#9b8d9f;animation:brief-in .45s ease both}.revealed.on-schedule .brief-row-reason{color:#6e937c}.revealed.blocked .brief-row-reason{color:#b07667}.brief-next-step{margin-top:20px;gap:12px}.brief-next-step button{font-size:11px}.brief-narrator{padding:30px;background:#f6f3f8;border-radius:14px;align-self:start}.brief-narrator-icon{display:grid;place-items:center;width:48px;height:48px;background:#e8dfef;border-radius:16px;color:#886396;font-size:25px;margin-bottom:24px}.brief-narrator h2{font-size:26px;font-weight:450;line-height:1.3;letter-spacing:-.5px;margin:14px 0}.brief-narrator p{font-size:13px;line-height:1.8;color:#948298}.brief-risk-note{border-top:1px solid #e4dae9;padding-top:19px;margin-top:22px}.brief-risk-note strong{font-size:13px}.brief-narrator button{margin-top:14px}.brief-source-note{margin-top:28px;font-size:8px}.pm-dashboard>.prepared-surprise{margin-top:22px}.brief-check{animation:brief-in .5s ease both}@keyframes brief-in{from{opacity:0;transform:translateY(5px)}to{opacity:1;transform:translateY(0)}}@media(max-width:720px){.brief-gantt-head,.brief-gantt-row{grid-template-columns:145px 1fr}.brief-gantt-name strong{font-size:11px}.brief-sequence{gap:4px}.brief-sequence button{font-size:9px;padding:8px}.brief-narrator{padding:22px}}@media(prefers-reduced-motion:reduce){.brief-check,.brief-row-reason{animation:none}}
